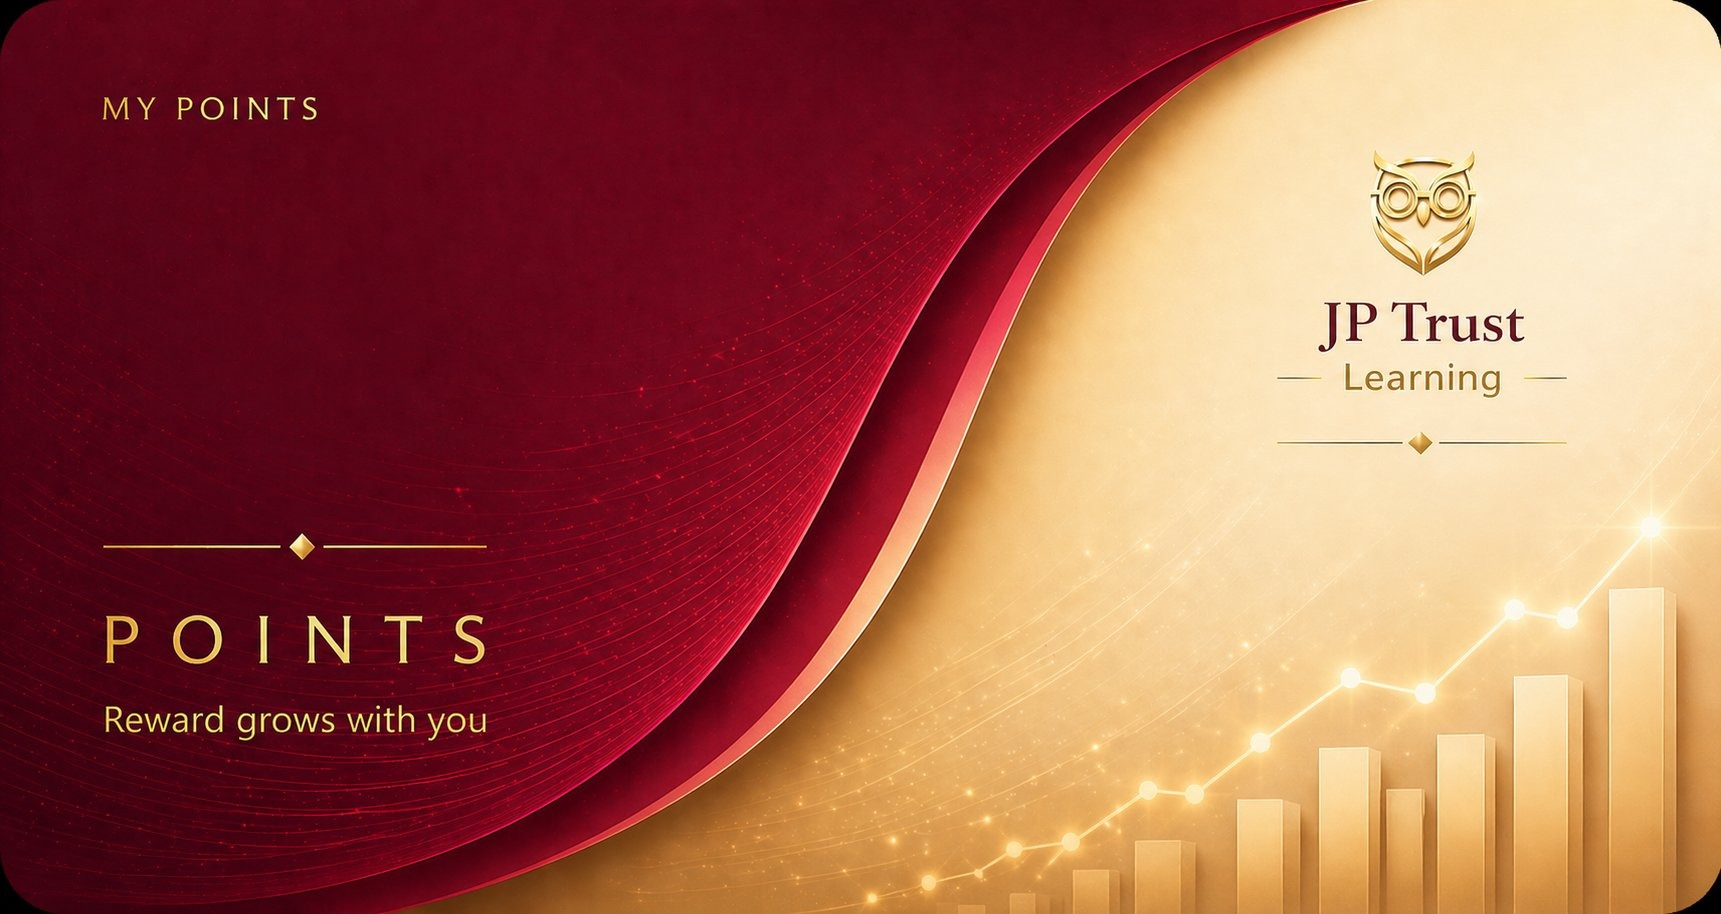
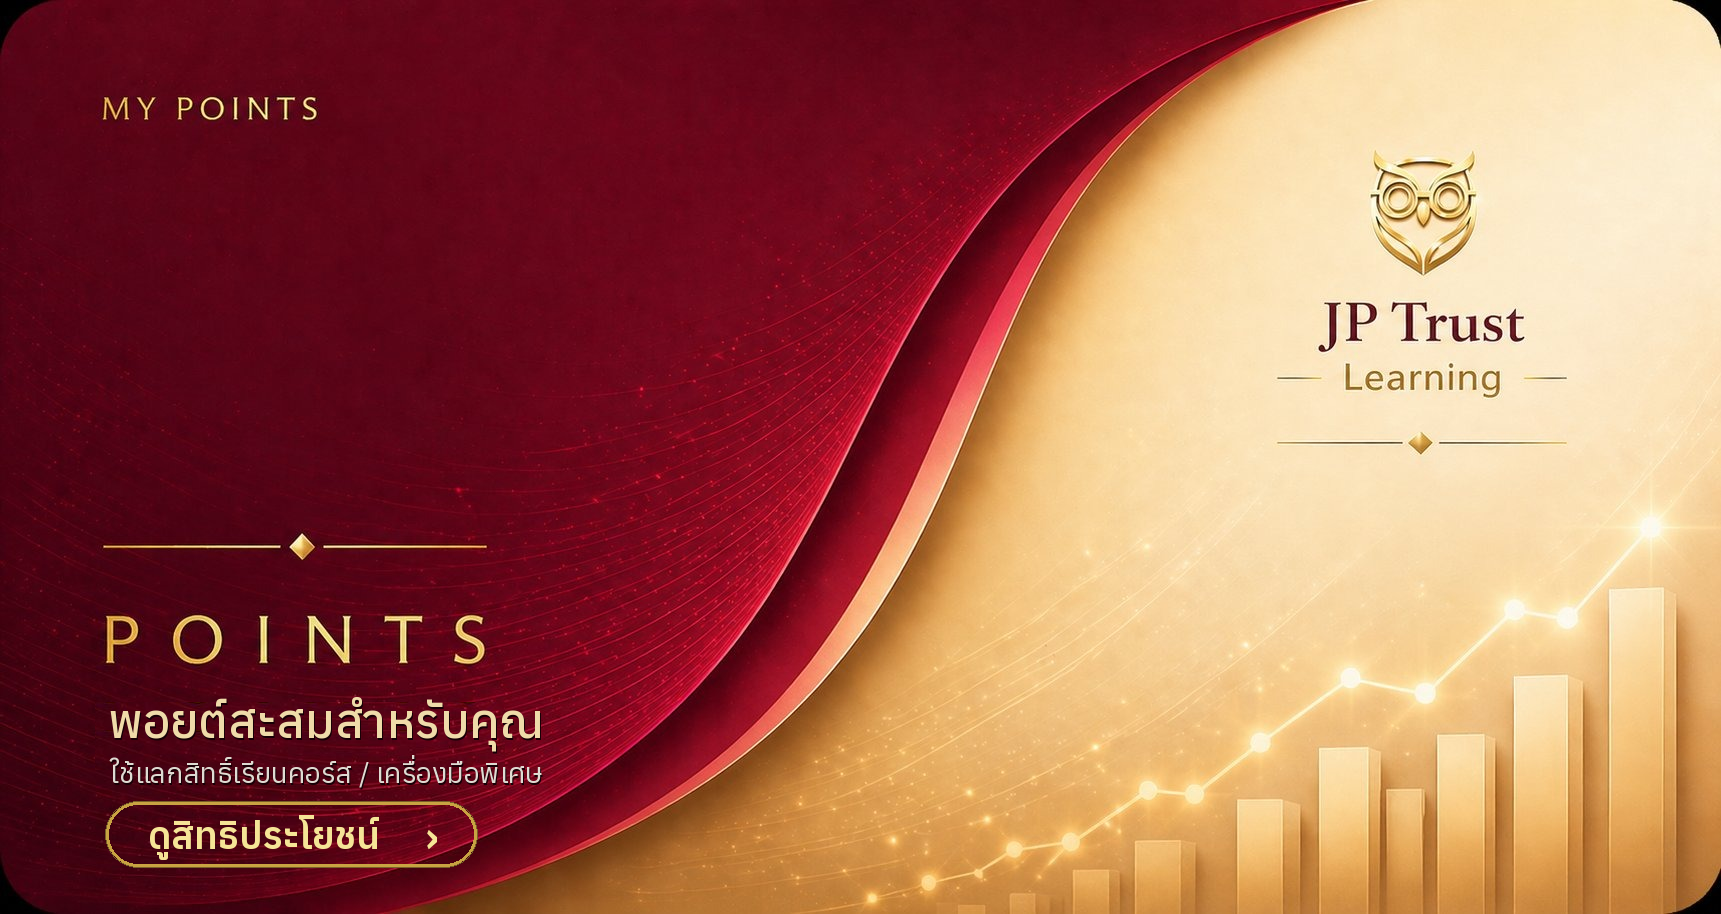
feat(dashboard): rework rewards-card left copy -> Thai promo + benefits button
- replace 'Reward grows with you' with 'พอยต์สะสมสำหรับคุณ' + 'ใช้แลกสิทธิ์เรียนคอร์ส / เครื่องมือพิเศษ'
- add decorative 'ดูสิทธิประโยชน์ ›' pill (gold outline, non-clickable)
- artwork/owl/logo + คู่มือ overlay unchanged; cache-bust member-card-rewards.png ?v

Changed region(s): [[0.0616, 0.7659, 0.308, 0.9497]]

diff --git a/member-dashboard.html b/member-dashboard.html
@@ -997,7 +997,7 @@ html,body{font-family:'Sarabun','Anuphan',sans-serif;background:var(--cream);col
 
     <div class="screen active" id="screen-home">
         <div class="reward-card fade-up fade-up-1" style="margin:14px 16px 0;overflow:hidden;border-radius:16px;">
-            <img src="member-card-rewards.png?v=1783496563" alt="JP Trust Rewards Card" style="width:100%;display:block;">
+            <img src="member-card-rewards.png?v=1786215873" alt="JP Trust Rewards Card" style="width:100%;display:block;">
             <canvas id="heroCanvas" style="position:absolute;inset:0;width:100%;height:100%;pointer-events:none;"></canvas>
             <div class="rc-member-name" id="cardName">Joonstinn</div>
             <div class="rc-points"><div class="rc-points-glow"></div><div class="rc-points-ring"></div><div class="rc-points-ring2"></div><div class="rc-points-num" id="cardPoints">100</div><div class="rc-points-label">Points</div></div>
